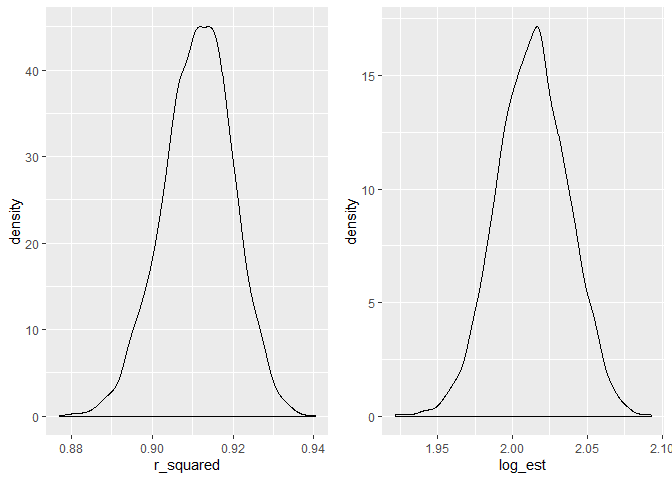
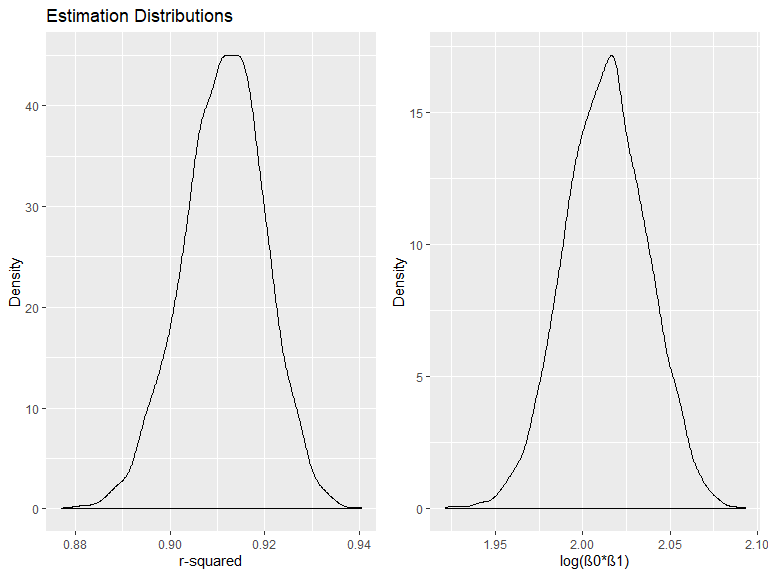
problem 2

diff --git a/p8105_hw6_ldl2113.md b/p8105_hw6_ldl2113.md
@@ -37,10 +37,60 @@ birthweight_data
     ## #   ppbmi <dbl>, ppwt <dbl>, smoken <dbl>, wtgain <dbl>
 
 ``` r
-sum(!complete.cases(birthweight_data))
+skimr::skim(birthweight_data)
 ```
 
-    ## [1] 0
+    ## Skim summary statistics
+    ##  n obs: 4342 
+    ##  n variables: 20 
+    ## 
+    ## -- Variable type:factor --------------------------------------------------
+    ##  variable missing complete    n n_unique
+    ##   babysex       0     4342 4342        2
+    ##     frace       0     4342 4342        5
+    ##   malform       0     4342 4342        2
+    ##     mrace       0     4342 4342        4
+    ##                               top_counts ordered
+    ##              mal: 2230, fem: 2112, NA: 0   FALSE
+    ##  whi: 2123, bla: 1911, pue: 248, asi: 46   FALSE
+    ##                abs: 4327, pre: 15, NA: 0   FALSE
+    ##  whi: 2147, bla: 1909, pue: 243, asi: 43   FALSE
+    ## 
+    ## -- Variable type:numeric -------------------------------------------------
+    ##  variable missing complete    n      mean     sd     p0     p25     p50
+    ##     bhead       0     4342 4342   33.65     1.62  21      33      34   
+    ##   blength       0     4342 4342   49.75     2.72  20      48      50   
+    ##       bwt       0     4342 4342 3114.4    512.15 595    2807    3132.5 
+    ##     delwt       0     4342 4342  145.57    22.21  86     131     143   
+    ##   fincome       0     4342 4342   44.11    25.98   0      25      35   
+    ##   gaweeks       0     4342 4342   39.43     3.15  17.7    38.3    39.9 
+    ##  menarche       0     4342 4342   12.51     1.48   0      12      12   
+    ##   mheight       0     4342 4342   63.49     2.66  48      62      63   
+    ##    momage       0     4342 4342   20.3      3.88  12      18      20   
+    ##    parity       0     4342 4342    0.0023   0.1    0       0       0   
+    ##   pnumlbw       0     4342 4342    0        0      0       0       0   
+    ##   pnumsga       0     4342 4342    0        0      0       0       0   
+    ##     ppbmi       0     4342 4342   21.57     3.18  13.07   19.53   21.03
+    ##      ppwt       0     4342 4342  123.49    20.16  70     110     120   
+    ##    smoken       0     4342 4342    4.15     7.41   0       0       0   
+    ##    wtgain       0     4342 4342   22.08    10.94 -46      15      22   
+    ##      p75   p100     hist
+    ##    35      41   <U+2581><U+2581><U+2581><U+2581><U+2585><U+2587><U+2581><U+2581>
+    ##    51      63   <U+2581><U+2581><U+2581><U+2581><U+2581><U+2587><U+2581><U+2581>
+    ##  3459    4791   <U+2581><U+2581><U+2581><U+2583><U+2587><U+2587><U+2582><U+2581>
+    ##   157     334   <U+2581><U+2587><U+2585><U+2581><U+2581><U+2581><U+2581><U+2581>
+    ##    65      96   <U+2581><U+2582><U+2587><U+2582><U+2582><U+2582><U+2581><U+2583>
+    ##    41.1    51.3 <U+2581><U+2581><U+2581><U+2581><U+2583><U+2587><U+2581><U+2581>
+    ##    13      19   <U+2581><U+2581><U+2581><U+2581><U+2582><U+2587><U+2581><U+2581>
+    ##    65      77   <U+2581><U+2581><U+2581><U+2585><U+2587><U+2582><U+2581><U+2581>
+    ##    22      44   <U+2582><U+2587><U+2585><U+2582><U+2581><U+2581><U+2581><U+2581>
+    ##     0       6   <U+2587><U+2581><U+2581><U+2581><U+2581><U+2581><U+2581><U+2581>
+    ##     0       0   <U+2581><U+2581><U+2581><U+2587><U+2581><U+2581><U+2581><U+2581>
+    ##     0       0   <U+2581><U+2581><U+2581><U+2587><U+2581><U+2581><U+2581><U+2581>
+    ##    22.91   46.1 <U+2581><U+2587><U+2585><U+2581><U+2581><U+2581><U+2581><U+2581>
+    ##   134     287   <U+2581><U+2587><U+2586><U+2581><U+2581><U+2581><U+2581><U+2581>
+    ##     5      60   <U+2587><U+2581><U+2581><U+2581><U+2581><U+2581><U+2581><U+2581>
+    ##    28      89   <U+2581><U+2581><U+2581><U+2587><U+2587><U+2581><U+2581><U+2581>
 
 *There are no missing data*
 
@@ -49,7 +99,7 @@ hypothesized structure for the factors that underly birthweight, on a
 data-driven model-building process, or a combination of the two.
 Describe your modeling process.
 
-*Based on my clinical in the delivery room and NICU, I propose that
+*Based on my clinical work in the delivery room and NICU, I propose that
 birthweight is predicted by: gestationl age, length, head circumference,
 smoking status, income, and the number of prior low birthweight babies
 born to the mother.*
@@ -105,13 +155,20 @@ bwtmodel_1 %>%
 
 Show a plot of model residuals against fitted values.
 
-    ## Warning in predict.lm(model, data): prediction from a rank-deficient fit
-    ## may be misleading
-    
-    ## Warning in predict.lm(model, data): prediction from a rank-deficient fit
-    ## may be misleading
+``` r
+birthweight_data %>%
+modelr::add_residuals(bwtmodel_1) %>%
+modelr::add_predictions(bwtmodel_1) %>% 
+ggplot(aes(x = pred, y = resid)) + geom_point(alpha = 0.5) + 
+           geom_hline(yintercept = 0, color = "blue") + 
+  labs(
+    title = "Plot of model residuals against fitted values",
+    x = "Predicted Birtweight (grams)",
+    y = "Residuals"
+   )
+```
 
-![](p8105_hw6_ldl2113_files/figure-gfm/unnamed-chunk-5-1.png)<!-- -->
+<img src="p8105_hw6_ldl2113_files/figure-gfm/unnamed-chunk-5-1.png" width="90%" />
 
 Create comparison models: One using length at birth and gestational age
 as predictors (main effects only) and one using head circumference,
@@ -126,7 +183,37 @@ bwtmodel_3 = lm(bwt ~ bhead + blength + babysex + bhead * blength + bhead * baby
 Make a comparison of these two models with your model in terms of the
 cross-validated prediction error.
 
-![](p8105_hw6_ldl2113_files/figure-gfm/unnamed-chunk-7-1.png)<!-- -->
+``` r
+cv_bwtmodels =
+  crossv_mc(birthweight_data, 100) %>%
+    mutate( 
+      train = map(train, as_tibble),
+      test = map(test, as_tibble)
+    )
+
+cv_bwtmodels = 
+  cv_bwtmodels %>%
+    mutate(
+      bwtmodel_1  = map(train, ~lm(bwt ~ gaweeks + bhead + blength + smoken + fincome + pnumlbw, data = .x)),
+      bwtmodel_2  = map(train, ~lm(bwt ~ gaweeks + blength, data = .x)),
+      bwtmodel_3  = map(train, ~lm(bwt ~ bhead + blength + babysex + bhead * blength + bhead * babysex + blength * babysex + bhead * blength * babysex, data = as_tibble(.x)))) %>% 
+    mutate(
+      rmse_bwtmodel_1 = map2_dbl(bwtmodel_1, test, ~rmse(model = .x, data = .y)),
+      rmse_bwtmodel_2   = map2_dbl(bwtmodel_2, test, ~rmse(model = .x, data = .y)),
+      rmse_regmodel_3 = map2_dbl(bwtmodel_3, test, ~rmse(model = .x, data = .y)))
+
+cv_bwtmodels %>% 
+  select(starts_with("rmse")) %>% 
+pivot_longer(
+    everything(),
+    names_to = "model", 
+    values_to = "rmse",
+    names_prefix = "rmse_") %>% 
+  mutate(model = fct_inorder(model)) %>% 
+  ggplot(aes(x = model, y = rmse,  fill = model)) + geom_violin(alpha = 0.5) 
+```
+
+<img src="p8105_hw6_ldl2113_files/figure-gfm/unnamed-chunk-7-1.png" width="90%" />
 
 *Based on RMSE, the model I developed (bwtmodel\_1) appears to be the
 best fit for the data, and in addition contains a moderate amount of
@@ -219,11 +306,10 @@ weather_df %>%
     names_from = term, 
     values_from = estimate)  %>% 
   janitor::clean_names() %>% 
-  mutate(log_est = log(intercept * tmin)) 
+  mutate(
+    log_betas = log(intercept * tmin)
+    ) 
 ```
-
-    ## Warning: unnest() has a new interface. See ?unnest for details.
-    ## Try `df %>% unnest(c(results, glance))`, with `mutate()` if needed
 
 Plot the distribution of your estimates.
 
@@ -231,18 +317,48 @@ Plot the distribution of your estimates.
 rsquared_plot = 
   weather_estimates %>% 
   ggplot(aes(x = r_squared)) +
-  geom_density()
+  geom_density() +
+  labs(
+    title = "Estimation Distributions",
+    x = "r-squared",
+    y = "Density"
+  )
 
-logbetas_plot = 
+log_betas_plot = 
   weather_estimates %>% 
-  ggplot(aes(x = log_est)) +
-  geom_density()
+  ggplot(aes(x = log_betas)) +
+  geom_density() +
+   labs(
+    x = "log(β0*β1)",
+    y = "Density"
+  )
 
-(rsquared_plot + logbetas_plot)
+(rsquared_plot + log_betas_plot)
 ```
 
-![](p8105_hw6_ldl2113_files/figure-gfm/unnamed-chunk-11-1.png)<!-- -->
+<img src="p8105_hw6_ldl2113_files/figure-gfm/unnamed-chunk-11-1.png" width="90%" />
+*These plots demonstrate that the estimates are approximately normally
+distributed.*
 
 Using the 5000 bootstrap estimates, identify the 2.5% and 97.5%
 quantiles to provide a 95% confidence interval for r^2 and
 log(β<sup>0∗β</sup>1).
+
+``` r
+pull(weather_estimates, r_squared) %>% 
+  quantile(c(0.025, 0.975))
+```
+
+    ##      2.5%     97.5% 
+    ## 0.8936977 0.9274807
+
+``` r
+pull(weather_estimates, log_betas) %>%
+  quantile(c(0.025, 0.975))
+```
+
+    ##     2.5%    97.5% 
+    ## 1.966942 2.058528
+
+*The 95% CI for r-squared is (0.89, 0.93). The 95% CI for
+log(β<sup>0∗β</sup>1) is (1.97, 2.06).*
